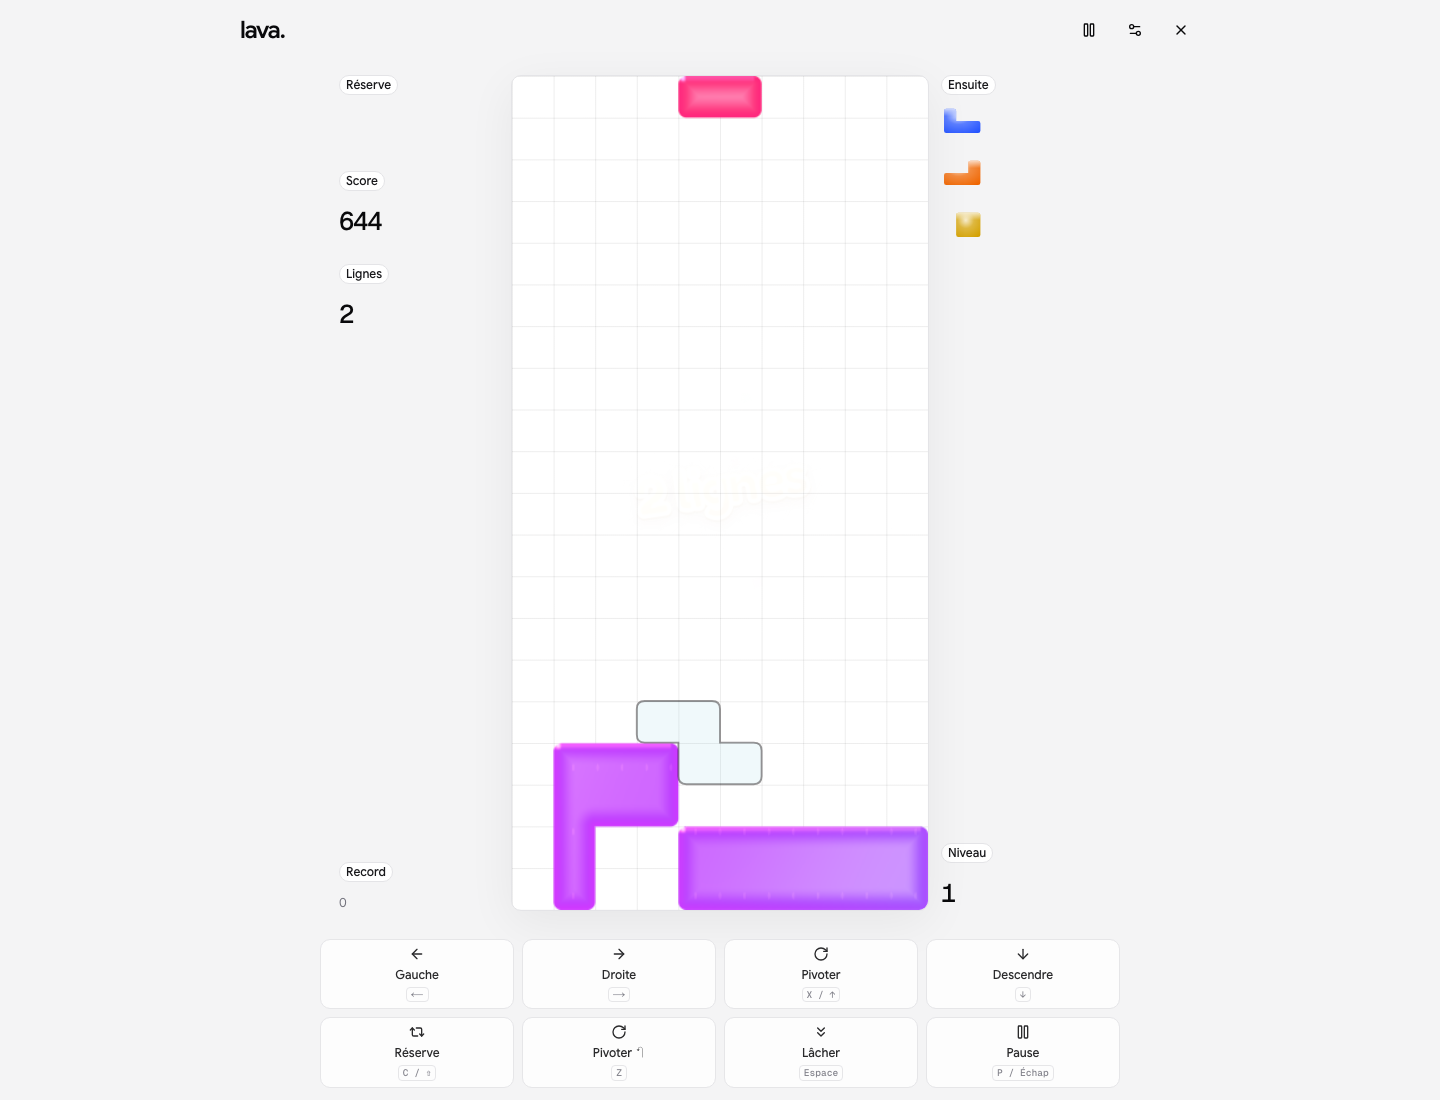
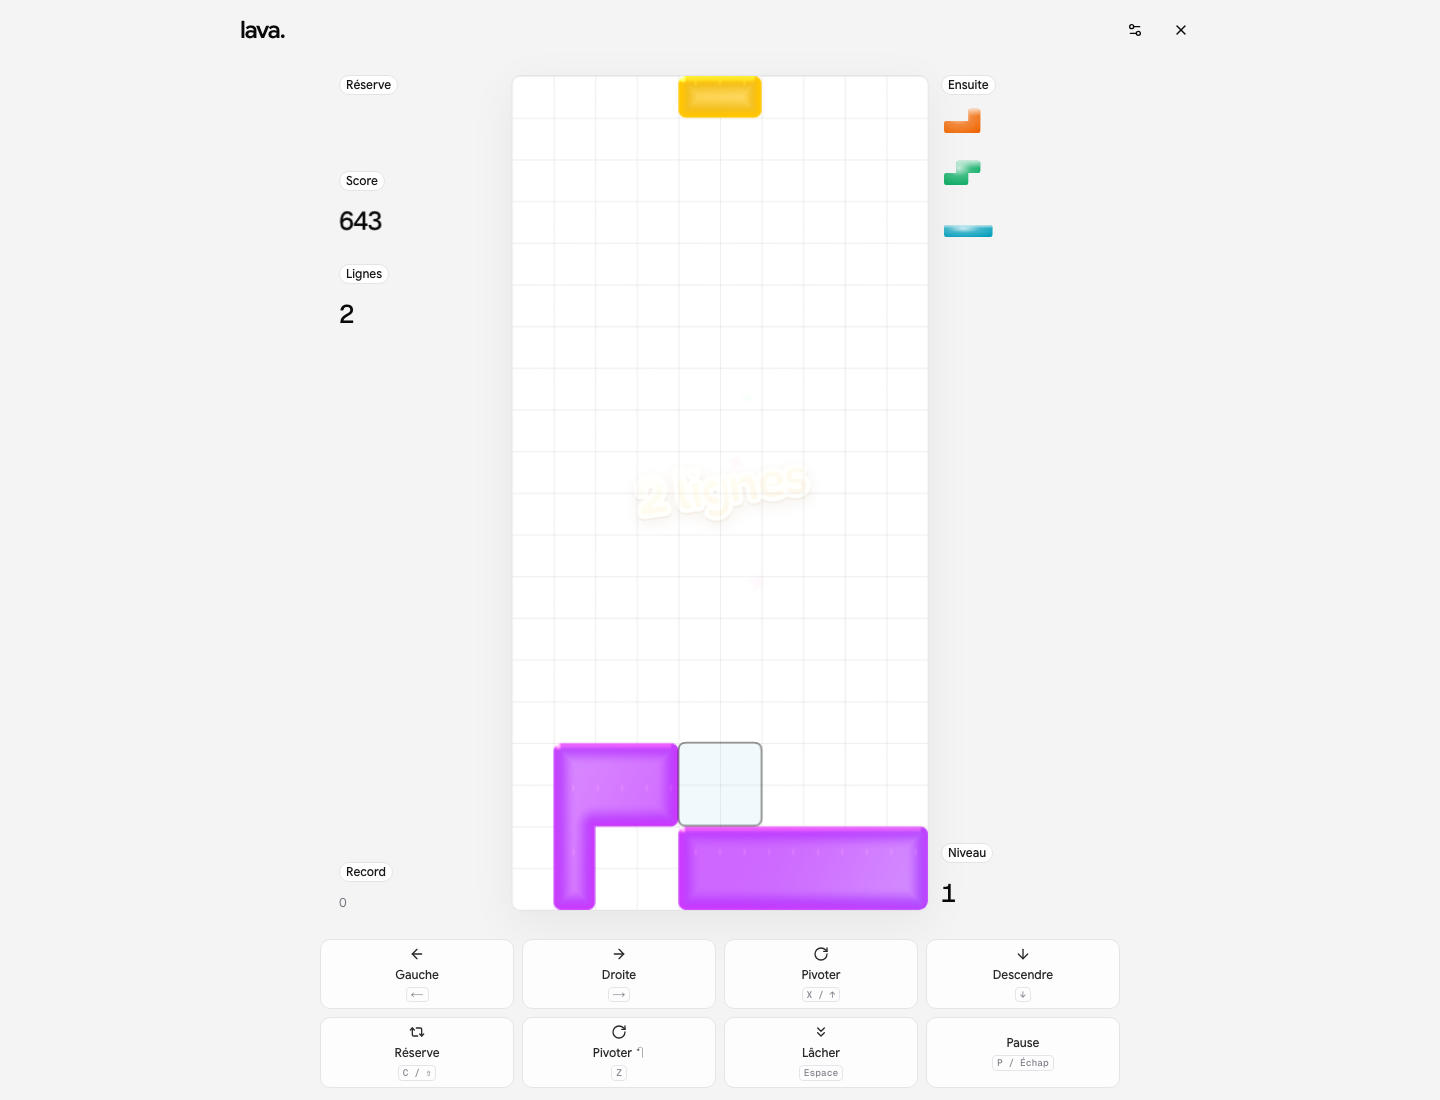
docs(tetris): document V2 scope and Vercel rollout with browser captures

diff --git a/V2_PLAN.md b/V2_PLAN.md
@@ -1,165 +1,17 @@
-# Lava — roadmap V2
+# Lava — V2 : son et classement général
 
-Statut : **planification uniquement**. Aucun développement, service externe, abonnement, publication ou déploiement n’est lancé. Le jeu actuel reste inchangé sur `feature/tetris`, derrière `NEXT_PUBLIC_ENABLE_TETRIS`, avec activation locale uniquement et noindex conservé.
+Périmètre confirmé : son optionnel et classement du marathon classique. Aucun défi quotidien, duel, multijoueur ou matchmaking.
 
-## Cap produit
+## Son
 
-Enrichir la sensation de jeu, puis donner une raison de revenir. Le mobile, Safari iPhone, la matière liquide et une interface calme restent prioritaires. Chaque lot doit pouvoir être livré et désactivé séparément ; le multijoueur ne conditionne pas les autres lots.
+Off par défaut, un seul toggle Son On / Off dans les réglages, choix mémorisé. Synthèse Web Audio originale, sans musique ni fichier externe. Ouverture du contexte sur un geste utilisateur ; arrêt des voix à la pause, perte de focus et sortie, fermeture au démontage. Paramètres dans `src/features/tetris/feel/audio.ts`.
 
-| Ordre | Lot | Valeur recherchée | Taille relative | Dépendance |
-|---|---|---|---|---|
-| 0 | Consolider la base sur appareils physiques | Une expérience fiable avant d’ajouter des systèmes | S à M | Aucune |
-| 1 | Son liquide, discret et optionnel | Renforcer les gestes et les moments de réussite | S | Lot 0 |
-| 2 | Défi quotidien déterministe | Donner une raison simple de revenir | M | Lot 0 + simulation reproductible |
-| 3 | Leaderboard du défi | Comparer des parties réellement comparables | L | Lot 2 + validation serveur |
-| 4 | Duel privé à deux | Jouer ensemble sans complexifier le solo | XL | Simulation reproductible + infrastructure temps réel |
+## Classement
 
-Les tailles expriment la complexité relative, pas un calendrier ni un engagement de livraison. **Première tranche recommandée : lots 0 et 1.** Ensuite, valider le défi quotidien local avant de financer ou construire un backend.
+Top 20 des records des 90 derniers jours, un record par navigateur, pseudonyme de 2 à 20 caractères et envoi volontaire après une partie terminée. Partie guidée exclue. Le serveur fournit une graine puis rejoue chaque action pour recalculer le score. Les pauses sont autorisées. Hors ligne, le solo et son record local restent disponibles.
 
-## Lot 0 — base de qualité
+SQLite persistant sur serveur Node avec disque durable, localement dans `.local/tetris/leaderboard.sqlite`. Le classement est désactivé sur Vercel tant qu’un stockage distant durable n’est pas configuré ; le jeu et le son fonctionnent indépendamment. Aucun stockage éphémère présenté comme persistant.
 
-### Périmètre
+## Publication
 
-- Tester sur un iPhone physique et un Android milieu de gamme : lancement, premier tap, maintien des boutons, gestes, rotation, perte de focus et reprise.
-- Mesurer les temps de frame sur plateau dense, avec effacement Tetris, en clair et sombre. Ajuster la qualité adaptative et vérifier que le fallback SVG reste agréable.
-- Vérifier le retour au portfolio et l’isolation des styles/listeners après plusieurs parties et ouvertures de panneaux.
-- Garder une capture et un relevé de performance de référence par appareil. Distinguer WebKit sur Mac et Safari sur téléphone.
-
-### Sortie attendue
-
-Aucune régression bloquante sur les appareils cibles. Cible de rendu : 60 fps ; si un appareil n’y arrive pas, réduire automatiquement les effets et documenter le résultat observé. Les contrôles et la lecture de la grille priment sur les effets.
-
-## Lot 1 — son liquide
-
-### Expérience minimale
-
-Le jeu démarre avec le son **Off** à la première visite. L’interface propose un seul bouton toggle **Son : On / Off**, sans slider ni réglage de volume. Le joueur choisit explicitement On ; son choix est mémorisé.
-
-Palette courte : déplacement très discret, rotation, pose souple, chute rapide, effacement progressif de 1 à 3 lignes, Tetris, montée de niveau et fin de partie. Un petit nombre de variations évite la répétition mécanique. Pas de musique dans cette première tranche.
-
-### Réalisation prévue
-
-- Ajouter un adaptateur audio isolé abonné au bus d’événements existant, sans dépendance audio dans `engine/`.
-- Fixer les niveaux sonores internes dans la configuration et centraliser priorités, variations et temporisations ; aucune interface de volume.
-- Démarrer les capacités audio après une interaction du joueur. Si l’audio est refusé ou indisponible, le jeu continue normalement.
-- Limiter le nombre de sons simultanés et éviter les doublons : l’événement d’effacement pilote le son de ligne, Tetris/combo ne relancent pas un second son identique.
-- Suspendre les sons à la pause, hors focus et au démontage. Son, haptiques et effets visuels restent réglables indépendamment.
-- Créer des sons originaux ou conserver la licence et l’attribution des fichiers retenus.
-
-### Critères d’acceptation
-
-1. Aucun son avant activation explicite, aucun blocage du premier tap sur Safari.
-2. Toggle On/Off persistant, état initial Off, aucun réglage de volume ; pas de son résiduel après avoir quitté le jeu.
-3. Retour sonore perceptible mais discret ; pas de saturation lors d’un maintien gauche/droite ou d’un combo.
-4. Tests sur haut-parleur iPhone et casque ; pas de baisse sensible de fluidité par rapport au lot 0.
-
-## Fondation commune avant les lots 2 à 4
-
-Le moteur accepte déjà une fonction RNG, mais la boucle actuelle avance avec le temps des frames. Cela ne suffit pas encore à garantir une relecture identique sur deux appareils.
-
-Prévoir une simulation à pas fixe, un RNG seedé, une version des règles et un format de replay : seed, mode, version, actions horodatées en ticks, résultat et motif de fin. La relecture doit produire exactement le même plateau et le même score dans les tests.
-
-L’ouverture de première partie reste réservée au mode solo libre. Elle est désactivée dans le défi et le duel : tous les participants doivent recevoir les mêmes conditions de départ. Les records sont séparés par mode et version ; les anciens records locaux ne deviennent pas automatiquement des scores compétitifs.
-
-## Lot 2 — défi quotidien, d’abord local
-
-### Expérience minimale
-
-Une entrée « Défi du jour » propose **deux minutes pour obtenir le meilleur score**. Tous les joueurs reçoivent la même séquence de pièces pour le même jour et la même version des règles. La session se termine au bout des deux minutes de simulation ou à la fin de partie.
-
-L’écran de fin affiche le score, les lignes, le nombre de Tetris et la progression par rapport au meilleur essai local du jour. Plusieurs essais sont permis ; seul le meilleur est retenu. Le mode libre actuel reste accessible et inchangé.
-
-### Règles à fixer
-
-- Le jour est défini en UTC et son heure de renouvellement est présentée dans le fuseau du joueur.
-- La date et la seed sont figées au début de la partie : un passage à minuit ne change pas la séquence en cours.
-- En version locale, la pause conserve la partie ; le temps de pause n’est pas du temps de jeu.
-- Aucun script d’onboarding dans ce mode. Même score de base, mêmes vitesses et mêmes possibilités de contrôle pour tous.
-- Sans réseau, le défi local reste jouable. Il n’est pas présenté comme un résultat vérifié ni soumis automatiquement plus tard.
-
-### Critères d’acceptation
-
-1. Même seed + mêmes actions = même résultat sur Chromium et WebKit.
-2. Tests des limites de journée et de la durée de partie ; affichage de fin clair sur mobile.
-3. Record quotidien distinct du record libre ; reprise et persistance sans corruption.
-4. Le défi fonctionne entièrement sans compte et sans backend.
-
-## Lot 3 — leaderboard du défi
-
-### Expérience minimale
-
-Activer le bouton Classement pour le **défi quotidien uniquement**. Une liste courte présente les meilleurs scores et la position de l’essai accepté du joueur. La soumission est volontaire : choix d’un pseudo, aperçu du résultat, puis envoi. Aucun compte obligatoire dans le premier périmètre ; aucun email nécessaire.
-
-Classement : score décroissant, puis nombre de lignes, puis nombre de pièces utilisées croissant pour départager. Si ces valeurs sont identiques, les joueurs partagent le rang. Les règles de départage sont visibles et versionnées.
-
-### Dépendances techniques
-
-- Définir le stockage, l’hébergement et leur coût après validation du défi local. Aucun fournisseur n’est choisi ou provisionné dans ce plan.
-- Ne pas faire confiance au score envoyé par le navigateur. Le serveur émet une session et vérifie le replay avec le moteur et la version des règles correspondante.
-- Ajouter des limites d’envoi, une validation des pseudos et une procédure de retrait des résultats abusifs.
-- Conserver le minimum utile : pseudo, résultat vérifié, version/jour et identifiant de session. Définir la durée de conservation et la suppression avant toute mise en ligne ; pas de tracking ajouté par défaut.
-- En cas de panne, garder le score local et afficher clairement que l’envoi n’a pas abouti.
-
-### Conditions de compétition
-
-Les essais avec pause, retour depuis l’arrière-plan ou fonctionnement hors ligne restent consultables localement, mais ne sont pas envoyés dans la catégorie vérifiée. Cette règle doit être annoncée **avant** de lancer un essai classé. Aucun ancien essai local n’est converti rétroactivement en résultat classé.
-
-### Critères d’acceptation
-
-1. Un score fabriqué, un replay modifié ou une version incompatible est refusé.
-2. Une soumission répétée n’ajoute pas de doublon ; les égalités ont un comportement stable.
-3. L’échec réseau n’interrompt pas le jeu ; aucune donnée n’est envoyée sans l’action prévue.
-4. Navigation, clavier, lecteur d’écran et états vide/chargement/erreur vérifiés sur mobile.
-
-## Lot 4 — duel privé à deux
-
-### Expérience minimale
-
-Un joueur crée un salon privé, partage un lien ou un code, puis les deux joueurs se déclarent prêts. Un compte à rebours synchronisé lance le duel. Chacun voit son plateau et un aperçu discret de celui de l’autre ; les contrôles mobiles restent identiques.
-
-Premier périmètre : **duel de score sur deux minutes**, même seed et mêmes règles, sans lignes envoyées à l’adversaire. Cela permet de valider la connexion et le plaisir de jouer ensemble avant de concevoir un mode versus avec attaques. Pas de matchmaking public, de chat ni de mode spectateur.
-
-### Formats possibles et matchmaking futur
-
-Le duel de score est le premier périmètre retenu. Un format survie avec attaques peut être étudié ensuite : des effacements envoient des lignes de pénalité chez l’adversaire, et le dernier joueur en jeu gagne. Le barème d’attaque, les contre-attaques et les égalités seraient des règles propres à Lava, à définir et tester ; aucun barème officiel n’est supposé dans ce plan.
-
-Le **matchmaking** désigne la recherche automatique d’un adversaire. Un salon privé n’en a pas besoin : le lien ou le code associe directement deux personnes.
-
-Pour un futur mode public :
-1. Le joueur sélectionne « Trouver un adversaire » et entre dans une file avec le mode et la version de règles choisis.
-2. Le serveur cherche un adversaire de niveau estimé proche, avec une connexion compatible ; les nouveaux joueurs commencent dans une phase de calibration.
-3. La plage de niveau s’élargit progressivement si l’attente dure, tout en restant dans le même mode et la même version. L’attente et l’annulation sont visibles.
-4. Les deux joueurs confirment qu’ils sont prêts. Le serveur crée le salon, attribue la même seed et annonce un départ synchronisé.
-5. En cas d’absence avant le départ, l’autre joueur retrouve la file sans défaite. Pendant le match, les règles de déconnexion/abandon annoncées s’appliquent.
-6. Le résultat validé par le serveur met à jour le classement de duel, séparé du leaderboard quotidien. Le score marathon brut ne suffit pas à estimer le niveau.
-
-Le matchmaking public reste une extension après les salons privés. Avec peu de joueurs simultanés, la file peut rester vide : conserver le partage de lien et le solo, sans inventer de faux adversaire ni garantir un temps d’attente.
-
-### Réalisation prévue
-
-- Simulation déterministe et serveur faisant autorité sur le départ, le temps et le résultat.
-- Service temps réel et protocole de synchronisation à comparer lors d’un prototype local, sans les figer maintenant.
-- Afficher l’état de connexion et limiter les mises à jour de l’aperçu adverse pour préserver le rendu du plateau principal.
-- Prévoir annulation avant départ, départage, abandon, délai de reconnexion et expiration du salon.
-- Pendant une déconnexion, le chrono compétitif ne se met pas en pause. Si la reconnexion échoue dans le délai annoncé, terminer proprement par abandon, sans attribuer un résultat ambigu.
-
-### Critères d’acceptation
-
-1. Deux appareils réels terminent une partie avec un résultat cohérent, même sous latence simulée.
-2. Aucun faux départ, résultat contradictoire ou salon réutilisé après expiration.
-3. La reconnexion et l’abandon sont compréhensibles sans explication technique dans l’interface.
-4. Le solo reste utilisable quand le service multijoueur est indisponible ; aucun impact sur le reste du portfolio.
-
-## Activation et livraison futures
-
-Prévoir un flag indépendant par lot, désactivé par défaut, sous le flag principal. Les parcours, liens et requêtes du lot restent absents lorsqu’il est désactivé. Le jeu continue à utiliser les composants et tokens du portfolio ; les options ne deviennent pas une nouvelle interface concurrente.
-
-Pour chaque lot : prototype local, tests utiles, revue visuelle mobile/desktop clair/sombre, vérification reduced motion, tests des deux flags et mesure sur appareils cibles. Commits locaux atomiques sur `feature/tetris`. Aucun push, déploiement, changement de main ni retrait du noindex ne découle de cette roadmap.
-
-## Hors du premier périmètre V2
-
-Musique, T-spins et nouvelle grille de scoring, mode versus avec attaques, matchmaking public, comptes sociaux, chat, monétisation et personnalisation des pièces. Ces sujets restent des pistes ; aucun n’est nécessaire pour livrer les quatre lots ci-dessus. Une évolution de scoring devra créer une nouvelle version compétitive.
-
-## Prochaine action prévue
-
-Quand le développement V2 sera explicitement demandé : commencer par le relevé sur appareils physiques (lot 0), puis concevoir et intégrer la palette sonore (lot 1). Le défi, le leaderboard et le multijoueur restent ensuite des lots séparés, sans travail anticipé dans la première tranche.
+Conserver `main` intacte et pousser `feature/tetris-v2`. Activer `NEXT_PUBLIC_ENABLE_TETRIS=true` et `NEXT_PUBLIC_ENABLE_TETRIS_SOUND=true` au build et à l’exécution Vercel. Garder `NEXT_PUBLIC_ENABLE_TETRIS_LEADERBOARD=false`. Le son utilisateur reste Off par défaut même avec son flag actif. Le noindex est conservé tant que la publication SEO n’est pas explicitement décidée.

diff --git a/TETRIS_README.md b/TETRIS_README.md
@@ -66,3 +66,22 @@ Logique adaptée de [sen-ltd/tetris](https://github.com/sen-ltd/tetris), commit 
 Ordre du bandeau : Pause, Réglages, Quitter. L’effacement de quatre lignes affiche **Tetris**. Les liens de retour utilisent ArrowLeft de Lucide. Les panneaux règles/réglages définissent leurs propres tokens d’espacement car les portails Radix sont hors du conteneur du jeu : marges de 24 px, interlignes et contrôles tactiles aérés.
 
 Les cellules posées partagent une seule matière : violet lumineux dominant, reflets cyan/rose sur un cycle doux de 32 secondes. La pièce active et les previews restent colorées. Les vraies cases vides restent visibles et le moteur ne change pas. Réglages : render/material.ts ; rendu WebGL et fallback SVG cohérents. Captures actualisées dans docs/tetris/v4.
+
+
+## V2 : son et classement
+
+Branche `feature/tetris-v2`. Flags indépendants (false par défaut dans `.env.example`) :
+
+```env
+NEXT_PUBLIC_ENABLE_TETRIS=true
+NEXT_PUBLIC_ENABLE_TETRIS_SOUND=true
+NEXT_PUBLIC_ENABLE_TETRIS_LEADERBOARD=true
+```
+
+Redémarrer le dev server ou reconstruire après changement des flags publics. Le son reste **Off** pour une première visite ; un seul toggle On / Off dans Réglages, aucun volume. Les fréquences, enveloppes, gain et limites sont dans `src/features/tetris/feel/audio.ts`. Vérifier le volume réel et les interruptions sur iPhone physique avant d’ajuster le gain.
+
+Le classement fonctionne sur un serveur Node avec disque persistant (SQLite intégré ; Node 22.13+ requis). Fichier ignoré par Git : `.local/tetris/leaderboard.sqlite`, chemin personnalisable via `TETRIS_DB_PATH`. Le top 20 affiche les records de moins de 90 jours. Un cookie anonyme distingue les navigateurs ; effacer les cookies crée une nouvelle identité. Les scores ne sont envoyés qu’après une fin de partie et un choix explicite de pseudonyme. La première partie guidée est exclue. Les enregistrements générés par les tests sont de vraies parties de test, pas des joueurs réels.
+
+Sur **Vercel**, activer le jeu et le son au build et au runtime, mais conserver `NEXT_PUBLIC_ENABLE_TETRIS_LEADERBOARD=false` : il faut connecter une base distante durable avant de publier ce classement. Ne pas utiliser `/tmp` comme stockage permanent. `.env.local` et les fichiers SQLite ne sont ni commités ni téléversés.
+
+La croix en jeu ouvre Pause. Reprendre conserve la partie ; Quitter (bouton destructif) l’abandonne et retourne au menu. Les raccourcis P et Échap restent disponibles. Les pages restent en noindex.
